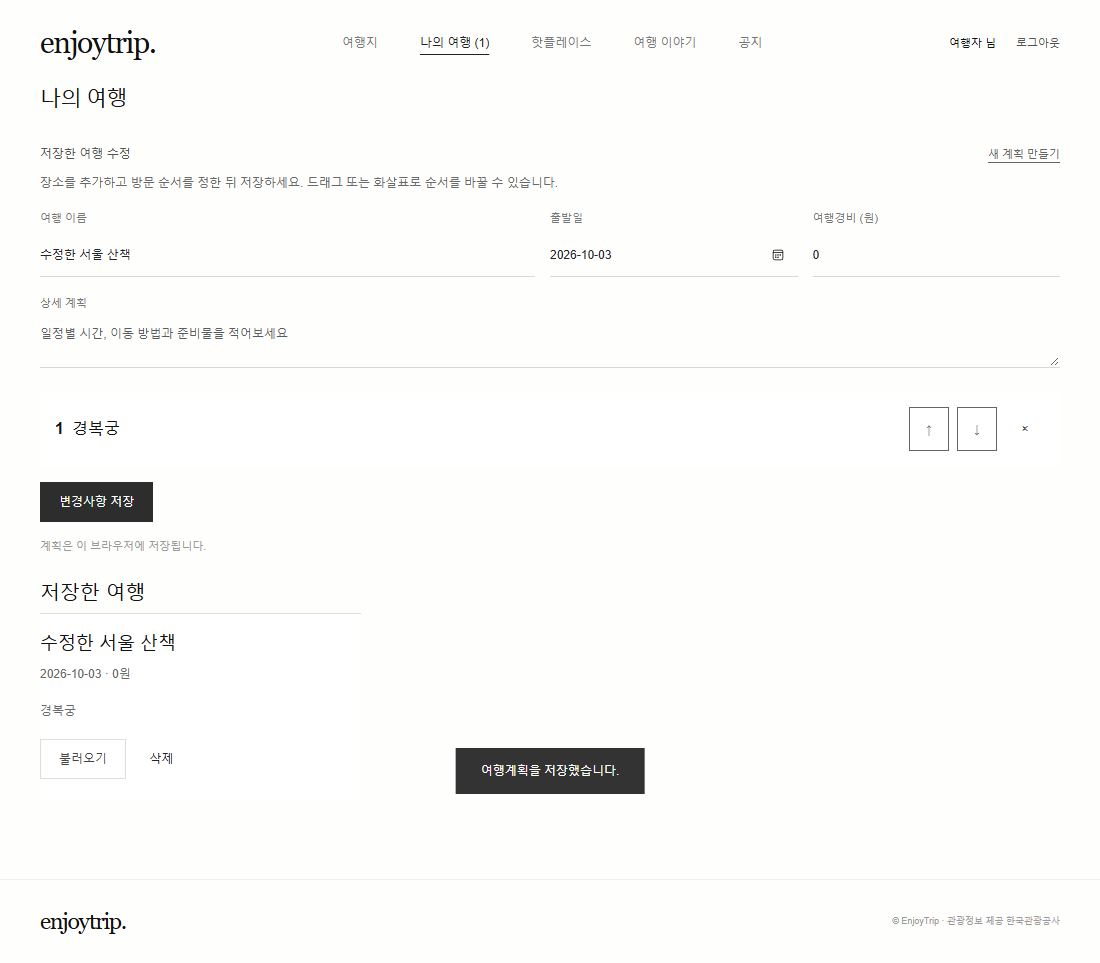
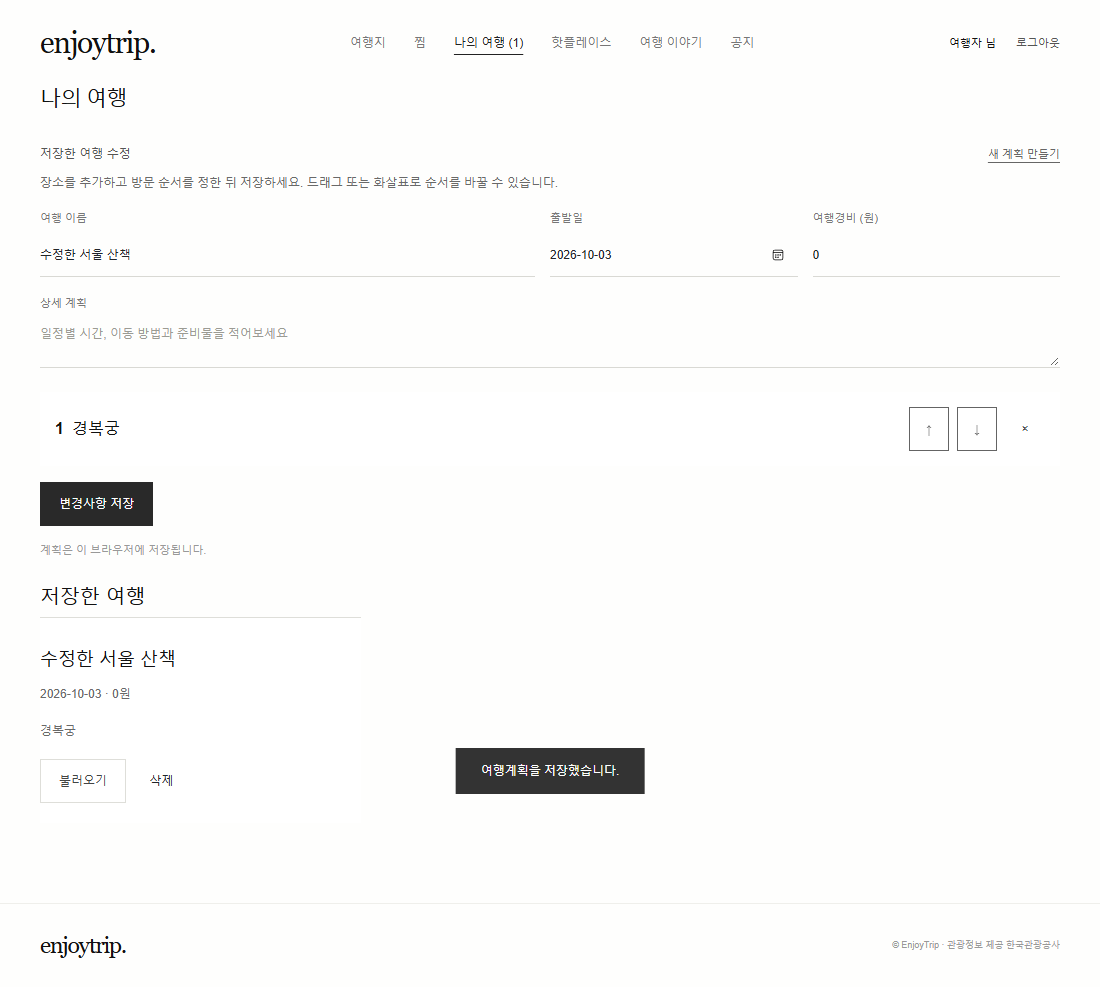
Add favorites and unify page and dialog controls

diff --git a/js/main.js b/js/main.js
@@ -6,7 +6,7 @@ const $=s=>document.querySelector(s), esc=v=>String(v??'').replace(/[&<>"']/g,c=
 function read(key,fallback=[]){try{return JSON.parse(localStorage.getItem('enjoy.'+key))??fallback}catch{return fallback}}
 function save(key,value){try{localStorage.setItem('enjoy.'+key,JSON.stringify(value))}catch{throw Error('저장 공간이 부족하거나 브라우저 저장이 차단되었습니다.')}}
 const current=()=>read('members').find(m=>m.id===sessionStorage.getItem('enjoy.session'));
-let spots=[],route=[],page=1,total=0,request=0,dragIndex=null,live=false;let toastTimer, pendingSpot=null, editingPlan=null, detailRequest=0, activeQuery=null;
+let spots=[],route=[],page=1,total=0,request=0,dragIndex=null,live=false;let toastTimer, pendingSpot=null, pendingHot=null, editingPlan=null, detailRequest=0, activeQuery=null;
 function draftKey(){return 'draft.'+(current()?.id||'guest')}
 function persistDraft(){if(current())save(draftKey(),{route,editingPlan,fields:Object.fromEntries(new FormData($('#plan-form')))});updateJourney()}
 function restoreDraft(){const d=read(draftKey(),{});route=d.route||[];editingPlan=d.editingPlan||null;for(const [key,value] of Object.entries(d.fields||{})){if($('#plan-form').elements[key])$('#plan-form').elements[key].value=value}updateJourney()}
@@ -14,8 +14,8 @@ function updateJourney(){$('#journey-link').hidden=location.hash==='#plan'||!rou
 $('#plan-form').addEventListener('input',persistDraft);
 $('#plan-new').onclick=()=>{if(route.length&&!confirm('현재 편집 내용을 비우고 새 계획을 만들까요?'))return;route=[];editingPlan=null;$('#plan-form').reset();persistDraft();renderRoute();renderSpots()};
 function toast(text){$('#toast').textContent=text;$('#toast').style.display='block';clearTimeout(toastTimer);toastTimer=setTimeout(()=>$('#toast').style.display='none',3500)}
-function modal(html){$('#modal-content').innerHTML=html;$('#modal').showModal()}
-$('#modal').addEventListener('close',()=>{pendingSpot=null;detailRequest++});
+function modal(html){$('#modal-content').innerHTML=html;$('#modal').showModal();enhanceSelects(document.querySelectorAll('#modal select:not([hidden])'))}
+$('#modal').addEventListener('close',()=>{pendingSpot=null;pendingHot=null;detailRequest++});
 $('#modal-close').onclick=()=>$('#modal').close();$('#modal').addEventListener('click',e=>{if(e.target===$('#modal')){const r=e.target.getBoundingClientRect();if(e.clientX<r.left||e.clientX>r.right||e.clientY<r.top||e.clientY>r.bottom)e.target.close()}});
 const empty=text=>`<div class="empty">${text}</div>`;
 const fields=(name,label,type='text',value='',extra='')=>`<label>${label}<input class="form-control" name="${name}" type="${type}" value="${esc(value)}" required ${extra}></label>`;
@@ -24,33 +24,39 @@ function account(){const u=current();$('#account').innerHTML=u?`<a href="#profil
 async function digest(password,salt){const bytes=new TextEncoder().encode(salt+password);return Array.from(new Uint8Array(await crypto.subtle.digest('SHA-256',bytes)),b=>b.toString(16).padStart(2,'0')).join('')}
 function auth(mode){const signup=mode==='signup',reset=mode==='reset';modal(`<h3>${signup?'회원가입':reset?'비밀번호 재설정':'다시 만나 반가워요'}</h3><p>${reset?'학습용 본인 확인: 가입한 아이디와 이메일을 입력하세요.':signup?'아이디는 영문·숫자·밑줄 4~20자, 비밀번호는 8자 이상입니다.':'여행의 즐거움을 함께 기록하세요.'}</p><form id="auth-form">${fields('id','아이디','text','','pattern="[A-Za-z0-9_]{4,20}" title="영문, 숫자, 밑줄 4~20자"')}${signup?fields('name','이름','text','','maxlength="30"'):''}${signup||reset?fields('email','이메일','email'):''}${fields('password',reset?'새 비밀번호':'비밀번호','password','','minlength="8" maxlength="100"')}${signup||reset?fields('confirm','비밀번호 확인','password','','minlength="8"'):''}<p id="auth-error" class="error" role="alert"></p><button class="btn btn-primary w-100">${signup?'가입하기':reset?'재설정':'로그인'}</button></form>${!signup&&!reset?'<div class="actions"><button id="go-signup" class="btn">회원가입</button><button id="go-reset" class="btn">비밀번호 찾기</button></div>':''}`);
 if($('#go-signup')){$('#go-signup').onclick=()=>auth('signup');$('#go-reset').onclick=()=>auth('reset')}
-$('#auth-form').onsubmit=async e=>{e.preventDefault();const f=Object.fromEntries(new FormData(e.target)),members=read('members');try{if(f.confirm&&f.password!==f.confirm)throw Error('비밀번호가 일치하지 않습니다.');let member=members.find(m=>m.id===f.id);if(signup){if(member)throw Error('이미 사용 중인 아이디입니다.');const salt=crypto.randomUUID();member={id:f.id,name:f.name.trim(),email:f.email.trim().toLowerCase(),salt,password:await digest(f.password,salt)};if(!member.name)throw Error('이름을 입력하세요.');members.push(member);save('members',members)}else if(reset){if(!member||member.email!==f.email.trim().toLowerCase())throw Error('아이디와 이메일을 확인하세요.');member.salt=crypto.randomUUID();member.password=await digest(f.password,member.salt);save('members',members)}else if(!member||member.password!==await digest(f.password,member.salt))throw Error('아이디 또는 비밀번호가 올바르지 않습니다.');if(!reset)sessionStorage.setItem('enjoy.session',member.id);$('#modal').close();if(!reset)restoreDraft();account();if(pendingSpot&&!reset){const selected=pendingSpot;pendingSpot=null;addRoute(selected)}toast(reset?'비밀번호를 재설정했습니다.':signup?'가입을 환영합니다!':'로그인했습니다.');navigate()}catch(error){$('#auth-error').textContent=error.message}}}
-function profile(){const u=current();if(!u){$('#profile-content').innerHTML=empty('로그인 후 내 정보를 확인할 수 있습니다.');return}$('#profile-content').innerHTML=`<h3>내 정보</h3><p>아이디: ${esc(u.id)}</p><form id="profile-form">${fields('name','이름','text',u.name,'maxlength="30"')}${fields('email','이메일','email',u.email)}<label>새 비밀번호 (변경할 때만 입력)<input name="password" type="password" minlength="8" class="form-control"></label><button class="btn btn-primary">정보 수정</button><button type="button" id="withdraw" class="btn btn-outline-danger">회원 탈퇴</button></form>`;$('#profile-form').onsubmit=async e=>{e.preventDefault();try{const f=Object.fromEntries(new FormData(e.target)),members=read('members'),m=members.find(m=>m.id===u.id);m.name=f.name.trim();if(!m.name)throw Error('이름을 입력하세요.');m.email=f.email.toLowerCase();if(f.password){m.salt=crypto.randomUUID();m.password=await digest(f.password,m.salt)}save('members',members);account();toast('회원정보를 수정했습니다.')}catch(err){toast(err.message)}};$('#withdraw').onclick=()=>{if(!confirm('탈퇴하면 회원정보와 개인 여행계획이 삭제됩니다. 탈퇴하시겠습니까?'))return;try{save('members',read('members').filter(m=>m.id!==u.id));save('plans',read('plans').filter(p=>p.owner!==u.id));sessionStorage.removeItem('enjoy.session');route=[];account();location.hash='explore';toast('탈퇴했습니다.')}catch(err){toast(err.message)}}}
+$('#auth-form').onsubmit=async e=>{e.preventDefault();const f=Object.fromEntries(new FormData(e.target)),members=read('members');try{if(f.confirm&&f.password!==f.confirm)throw Error('비밀번호가 일치하지 않습니다.');let member=members.find(m=>m.id===f.id);if(signup){if(member)throw Error('이미 사용 중인 아이디입니다.');const salt=crypto.randomUUID();member={id:f.id,name:f.name.trim(),email:f.email.trim().toLowerCase(),salt,password:await digest(f.password,salt)};if(!member.name)throw Error('이름을 입력하세요.');members.push(member);save('members',members)}else if(reset){if(!member||member.email!==f.email.trim().toLowerCase())throw Error('아이디와 이메일을 확인하세요.');member.salt=crypto.randomUUID();member.password=await digest(f.password,member.salt);save('members',members)}else if(!member||member.password!==await digest(f.password,member.salt))throw Error('아이디 또는 비밀번호가 올바르지 않습니다.');if(!reset)sessionStorage.setItem('enjoy.session',member.id);$('#modal').close();if(!reset)restoreDraft();account();if(pendingHot&&!reset){const selected=pendingHot;pendingHot=null;openHot(selected)}if(pendingSpot&&!reset){const selected=pendingSpot;pendingSpot=null;addRoute(selected)}toast(reset?'비밀번호를 재설정했습니다.':signup?'가입을 환영합니다!':'로그인했습니다.');navigate()}catch(error){$('#auth-error').textContent=error.message}}}
+function profile(){const u=current();if(!u){$('#profile-content').innerHTML=empty('로그인 후 내 정보를 확인할 수 있습니다.');return}$('#profile-content').innerHTML=`<p>아이디: ${esc(u.id)}</p><form id="profile-form">${fields('name','이름','text',u.name,'maxlength="30"')}${fields('email','이메일','email',u.email)}<label>새 비밀번호 (변경할 때만 입력)<input name="password" type="password" minlength="8" class="form-control"></label><button class="btn btn-primary">정보 수정</button><button type="button" id="withdraw" class="btn btn-outline-danger">회원 탈퇴</button></form>`;$('#profile-form').onsubmit=async e=>{e.preventDefault();try{const f=Object.fromEntries(new FormData(e.target)),members=read('members'),m=members.find(m=>m.id===u.id);m.name=f.name.trim();if(!m.name)throw Error('이름을 입력하세요.');m.email=f.email.toLowerCase();if(f.password){m.salt=crypto.randomUUID();m.password=await digest(f.password,m.salt)}save('members',members);account();toast('회원정보를 수정했습니다.')}catch(err){toast(err.message)}};$('#withdraw').onclick=()=>{if(!confirm('탈퇴하면 회원정보와 개인 여행계획이 삭제됩니다. 탈퇴하시겠습니까?'))return;try{save('members',read('members').filter(m=>m.id!==u.id));save('plans',read('plans').filter(p=>p.owner!==u.id));sessionStorage.removeItem('enjoy.session');route=[];account();location.hash='explore';toast('탈퇴했습니다.')}catch(err){toast(err.message)}}}
 $('#region').innerHTML='<option value="">전국</option>'+regions.map(r=>`<option value="${r[0]}">${r[1]}</option>`).join('');$('#category').innerHTML='<option value="">모든 유형</option>'+categories.map(r=>`<option value="${r[0]}">${r[1]}</option>`).join('');
 $('#district').disabled=true;
 let districtRequest=0;$('#region').onchange=async()=>{const id=++districtRequest;$('#district').disabled=true;$('#district').innerHTML='<option value="">'+($('#region').value?'불러오는 중…':'지역을 먼저 선택하세요')+'</option>';if(!$('#region').value)return;try{const result=await tourAPI('ldongCode2',{lDongRegnCd:$('#region').value,lDongListYn:'N',numOfRows:100});if(id!==districtRequest)return;$('#district').innerHTML='<option value="">전체</option>';$('#district').disabled=false;$('#district').innerHTML+=result.items.map(r=>`<option value="${esc(r.code||r.lDongSignguCd)}">${esc(r.name||r.lDongSignguNm)}</option>`).join('')}catch{if(id===districtRequest){$('#district').innerHTML='<option value="">시군구를 불러오지 못했습니다</option>';toast('지역 전체로 검색할 수 있습니다. 시군구 조회는 지역을 다시 선택해 주세요.')}}};
 
+const favoriteKey=()=> 'favorites';
+function isFavorite(s){return read(favoriteKey()).some(f=>f.contentid===s.contentid)}
+function favoriteButton(s){return `<button type="button" class="favorite-toggle" data-favorite="${esc(s.contentid)}" aria-pressed="${isFavorite(s)}" aria-label="${esc(s.title)} ${isFavorite(s)?'찜 해제':'찜하기'}">${isFavorite(s)?'♥ 찜함':'♡ 찜'}</button>`}
+function toggleFavorite(s){try{const saved=isFavorite(s);save(favoriteKey(),saved?read(favoriteKey()).filter(f=>f.contentid!==s.contentid):[s,...read(favoriteKey())]);renderSpots();renderFavorites();if($('#detail-favorite')){$('#detail-favorite').innerHTML=favoriteButton(s);$('#detail-favorite button').onclick=()=>toggleFavorite(s)}toast(saved?'찜을 해제했습니다.':'찜에 저장했습니다.')}catch(e){toast(e.message)}}
+function renderFavorites(){const rows=read(favoriteKey());$('#favorite-list').innerHTML=rows.length?rows.map((s,i)=>`<article class="tile">${s.firstimage?`<img src="${esc(s.firstimage)}" alt="${esc(s.title)}" loading="lazy">`:''}<span class="badge-type">${typeName(s)}</span><h3><button class="spot-title" data-fav-detail="${i}">${esc(s.title)}</button></h3><p>${esc(s.addr1||'')}</p><div class="actions">${favoriteButton(s)}<button class="btn btn-outline-secondary" data-fav-add="${i}" ${route.some(r=>r.contentid===s.contentid)?'disabled':''}>${route.some(r=>r.contentid===s.contentid)?'추가됨 ✓':'여행에 추가'}</button><button class="btn" data-fav-hot="${i}">핫플로 등록</button></div></article>`).join(''):'<div class="empty">아직 찜한 장소가 없습니다.<br><a class="empty-link" href="#explore">여행지 찾아보기 →</a></div>';$('#favorite-list').querySelectorAll('[data-favorite]').forEach(b=>b.onclick=()=>toggleFavorite(rows.find(s=>s.contentid===b.dataset.favorite)));for(const [attr,action] of [['detail',detail],['add',addRoute],['hot',openHot]])$('#favorite-list').querySelectorAll(`[data-fav-${attr}]`).forEach(b=>b.onclick=()=>action(rows[b.dataset['fav'+attr[0].toUpperCase()+attr.slice(1)]]))}
 function typeName(s){return categories.find(c=>String(c[0])===String(s.contenttypeid))?.[1]||'여행지'}
-function renderSpots(){ $('#result-count').textContent=`발견한 장소 ${total}곳`;$('#spots').innerHTML=spots.length?spots.map((s,i)=>`<article class="spot-card">${s.firstimage?`<img class="spot-art" src="${esc(s.firstimage)}" alt="${esc(s.title)}" loading="lazy" referrerpolicy="no-referrer">`:`<div class="spot-index" aria-hidden="true">${String(i+1).padStart(2,'0')}</div>`}<div class="spot-copy"><span class="badge-type">${typeName(s)}</span><h3><button type="button" class="spot-title" data-detail="${i}">${esc(s.title)}</button></h3><p>${esc(s.addr1||'주소 정보 없음')}</p><button class="btn btn-primary" data-add="${i}" ${route.some(r=>r.contentid===s.contentid)?'disabled':''}>${route.some(r=>r.contentid===s.contentid)?'추가됨 ✓':'여행에 추가 +'}</button></div></article>`).join(''):empty('검색 결과가 없습니다. 다른 지역이나 검색어를 선택해 보세요.');$('#more').hidden=!live||spots.length>=total;$('#spots').querySelectorAll('[data-detail]').forEach(b=>b.onclick=()=>detail(spots[b.dataset.detail]));$('#spots').querySelectorAll('[data-add]').forEach(b=>b.onclick=()=>addRoute(spots[b.dataset.add]));if(map)updateMap(spots.map(s=>({...s,x:Number(s.mapx),y:Number(s.mapy),label:s.title,address:s.addr1})));$('#spots').querySelectorAll('img').forEach(img=>img.onerror=()=>{img.removeAttribute('src');img.alt='사진 준비 중'})}
+function renderSpots(){ $('#result-count').textContent=`발견한 장소 ${total}곳`;$('#spots').innerHTML=spots.length?spots.map((s,i)=>`<article class="spot-card">${s.firstimage?`<img class="spot-art" src="${esc(s.firstimage)}" alt="${esc(s.title)}" loading="lazy" referrerpolicy="no-referrer">`:`<div class="spot-index" aria-hidden="true">${String(i+1).padStart(2,'0')}</div>`}<div class="spot-copy"><span class="badge-type">${typeName(s)}</span><h3><button type="button" class="spot-title" data-detail="${i}">${esc(s.title)}</button></h3><p>${esc(s.addr1||'주소 정보 없음')}</p>${favoriteButton(s)}<button class="btn btn-primary" data-add="${i}" ${route.some(r=>r.contentid===s.contentid)?'disabled':''}>${route.some(r=>r.contentid===s.contentid)?'추가됨 ✓':'여행에 추가 +'}</button></div></article>`).join(''):empty('검색 결과가 없습니다. 다른 지역이나 검색어를 선택해 보세요.');$('#more').hidden=!live||spots.length>=total;$('#spots').querySelectorAll('[data-favorite]').forEach(b=>b.onclick=()=>toggleFavorite(spots.find(s=>s.contentid===b.dataset.favorite)));$('#spots').querySelectorAll('[data-detail]').forEach(b=>b.onclick=()=>detail(spots[b.dataset.detail]));$('#spots').querySelectorAll('[data-add]').forEach(b=>b.onclick=()=>addRoute(spots[b.dataset.add]));if(map)updateMap(spots.map(s=>({...s,x:Number(s.mapx),y:Number(s.mapy),label:s.title,address:s.addr1})));$('#spots').querySelectorAll('img').forEach(img=>img.onerror=()=>{img.removeAttribute('src');img.alt='사진 준비 중'})}
 async function search(append=false,near=null){const id=++request;$('#spots').setAttribute('aria-busy','true');$('#data-status').textContent='관광정보를 불러오고 있습니다…';const buttons=$('#search').querySelectorAll('button');buttons.forEach(b=>b.disabled=true);$('#more').disabled=true;if(!append)page=1;const region=$('#region').value,category=$('#category').value,keyword=$('#keyword').value.trim();let params={pageNo:page,arrange:'A'};if(region)params.lDongRegnCd=region;if($('#district').value)params.lDongSignguCd=$('#district').value;if(category)params.contentTypeId=category;let method='areaBasedList2';if(keyword){method='searchKeyword2';params.keyword=keyword}if(near){method='locationBasedList2';params={pageNo:page,mapX:near.lng,mapY:near.lat,radius:2000,arrange:'E',...(category?{contentTypeId:category}:{})}}
 if(append&&activeQuery){method=activeQuery.method;params={...activeQuery.params,pageNo:page}}else{activeQuery={method,params:{...params}};const summary=[near?'내 주변 2km':$('#region').selectedOptions[0].textContent,$('#district').value?$('#district').selectedOptions[0].textContent:'',category?$('#category').selectedOptions[0].textContent:'',keyword&&!near?`“${keyword}”`:''].filter(Boolean).join(' · ');$('#search-summary').textContent=summary;$('#search-context').hidden=!near&&!region&&!category&&!keyword}
 try{const result=await tourAPI(method,params);if(id!==request)return;spots=append?[...spots,...result.items]:result.items;total=result.total;live=true;$('#data-status').textContent='한국관광공사 실시간 관광정보'}catch(err){if(id!==request)return;if(append){page=Math.max(1,page-1);$('#data-status').textContent='추가 결과를 불러오지 못했습니다. 다시 시도해 주세요.';return}live=false;spots=samples.filter(s=>(!region||s.region===region)&&(!category||s.contenttypeid===category)&&(!keyword||s.title.includes(keyword)||s.addr1.includes(keyword)));if(near){spots=spots.filter(s=>{const dy=(s.mapy-near.lat)*111,dx=(s.mapx-near.lng)*111*Math.cos(near.lat*Math.PI/180);return Math.hypot(dx,dy)<=2})}if($('#district').value)spots=[];total=spots.length;$('#data-status').textContent='샘플 모드 · API 연결 실패, 실제 조회 결과가 아닙니다.'}finally{if(id===request){renderSpots();$('#spots').setAttribute('aria-busy','false');buttons.forEach(b=>b.disabled=false);$('#district').dispatchEvent(new Event('change'));$('#more').disabled=false}}}
 $('#search-reset').onclick=()=>{$('#search').reset();$('#region').dispatchEvent(new Event('change'));$('#category').dispatchEvent(new Event('change'));search()};
 $('#search').onsubmit=e=>{e.preventDefault();search()};$('#more').onclick=()=>{page++;search(true)};$('#nearby').onclick=()=>{if(!navigator.geolocation)return toast('이 브라우저는 위치 조회를 지원하지 않습니다.');navigator.geolocation.getCurrentPosition(p=>search(false,{lat:p.coords.latitude,lng:p.coords.longitude}),()=>toast('위치 권한을 허용해 주세요. 지역 검색은 계속 이용할 수 있습니다.'),{timeout:10000})};
-async function detail(s){const ticket=++detailRequest;if(map&&Number(s.mapy)&&Number(s.mapx)){map.setLevel(4);map.panTo(new kakao.maps.LatLng(Number(s.mapy),Number(s.mapx)))}modal(`<h3>${esc(s.title)}</h3>${s.firstimage?`<img class="detail-photo" src="${esc(s.firstimage)}" alt="${esc(s.title)}">`:''}<p>${esc(s.addr1)}</p><p id="detail-text">${esc(s.overview||'상세정보를 불러오는 중입니다…')}</p><div class="actions"><button id="detail-add" class="btn btn-primary">여행에 추가</button><a class="btn btn-outline-secondary" target="_blank" rel="noopener" href="https://map.kakao.com/link/search/${encodeURIComponent(s.title)}">카카오맵에서 보기 ↗</a></div>`);$('#detail-add').textContent=route.some(r=>r.contentid===s.contentid)?'추가됨 ✓':'여행에 추가 +';$('#detail-add').disabled=route.some(r=>r.contentid===s.contentid);$('#detail-add').onclick=()=>addRoute(s);if(!s.sample)try{const r=await tourAPI('detailCommon2',{contentId:s.contentid});if(ticket===detailRequest&&$('#modal').open&&$('#detail-text'))$('#detail-text').textContent=(r.items[0]?.overview||'제공된 상세 설명이 없습니다.').replace(/<[^>]*>/g,' ')}catch{if(ticket===detailRequest&&$('#modal').open&&$('#detail-text'))$('#detail-text').textContent='상세정보를 불러오지 못했습니다. 지도에서 확인해 주세요.'}}
-function addRoute(s){if(!current()){pendingSpot=s;auth('login');toast('로그인하면 선택한 장소를 여행에 추가합니다.');return;}if(route.some(r=>r.contentid===s.contentid))return toast('이미 여행에 추가한 장소입니다.');route.push(s);persistDraft();renderRoute();renderSpots();if($('#detail-add')){$('#detail-add').textContent='추가됨 ✓';$('#detail-add').disabled=true}toast('나의 여행에 추가했습니다.')}
+async function detail(s){const ticket=++detailRequest;if(map&&Number(s.mapy)&&Number(s.mapx)){map.setLevel(4);map.panTo(new kakao.maps.LatLng(Number(s.mapy),Number(s.mapx)))}modal(`<h3>${esc(s.title)}</h3>${s.firstimage?`<img class="detail-photo" src="${esc(s.firstimage)}" alt="${esc(s.title)}">`:''}<p>${esc(s.addr1)}</p><p id="detail-text">${esc(s.overview||'상세정보를 불러오는 중입니다…')}</p><div class="actions"><span id="detail-favorite">${favoriteButton(s)}</span><button id="detail-add" class="btn btn-primary">여행에 추가</button><a class="btn btn-outline-secondary" target="_blank" rel="noopener" href="https://map.kakao.com/link/search/${encodeURIComponent(s.title)}">카카오맵에서 보기 ↗</a></div>`);$('#detail-favorite button').onclick=()=>toggleFavorite(s);$('#detail-add').textContent=route.some(r=>r.contentid===s.contentid)?'추가됨 ✓':'여행에 추가 +';$('#detail-add').disabled=route.some(r=>r.contentid===s.contentid);$('#detail-add').onclick=()=>addRoute(s);if(!s.sample)try{const r=await tourAPI('detailCommon2',{contentId:s.contentid});if(ticket===detailRequest&&$('#modal').open&&$('#detail-text'))$('#detail-text').textContent=(r.items[0]?.overview||'제공된 상세 설명이 없습니다.').replace(/<[^>]*>/g,' ')}catch{if(ticket===detailRequest&&$('#modal').open&&$('#detail-text'))$('#detail-text').textContent='상세정보를 불러오지 못했습니다. 지도에서 확인해 주세요.'}}
+function addRoute(s){if(!current()){pendingSpot=s;auth('login');toast('로그인하면 선택한 장소를 여행에 추가합니다.');return;}if(route.some(r=>r.contentid===s.contentid))return toast('이미 여행에 추가한 장소입니다.');route.push(s);persistDraft();renderRoute();renderSpots();renderFavorites();if($('#detail-add')){$('#detail-add').textContent='추가됨 ✓';$('#detail-add').disabled=true}toast('나의 여행에 추가했습니다.')}
 function renderRoute(){updateJourney();$('#route-list').innerHTML=route.length?route.map((s,i)=>`<li draggable="true" data-index="${i}"><b>${i+1}</b><span>${esc(s.title)}</span><button type="button" class="btn" data-up="${i}" aria-label="위로 이동" ${i===0?'disabled':''}>↑</button><button type="button" class="btn" data-down="${i}" aria-label="아래로 이동" ${i===route.length-1?'disabled':''}>↓</button><button type="button" class="btn" data-remove="${i}" aria-label="경로에서 제거">×</button></li>`).join(''):'<div class="empty">아직 추가한 장소가 없습니다.<br><a class="empty-link" href="#explore">여행지 찾아보기 →</a></div>';for(const [action,delta]of[['up',-1],['down',1]])$('#route-list').querySelectorAll(`[data-${action}]`).forEach(b=>b.onclick=()=>{const i=Number(b.dataset[action]),j=i+delta;if(j>=0&&j<route.length){[route[i],route[j]]=[route[j],route[i]];persistDraft();renderRoute()}});$('#route-list').querySelectorAll('[data-remove]').forEach(b=>b.onclick=()=>{route.splice(Number(b.dataset.remove),1);persistDraft();renderRoute();renderSpots()});$('#route-list').querySelectorAll('li').forEach(li=>{li.ondragstart=e=>{dragIndex=Number(li.dataset.index);e.dataTransfer.setData('text/plain',String(dragIndex))};li.ondragover=e=>e.preventDefault();li.ondrop=e=>{e.preventDefault();if(dragIndex===null)return;const [s]=route.splice(dragIndex,1);route.splice(Number(li.dataset.index),0,s);dragIndex=null;persistDraft();renderRoute()};li.ondragend=()=>dragIndex=null})}
 $('#plan-form').onsubmit=e=>{e.preventDefault();if(!requireUser())return;if(!route.length)return toast('여행지를 한 곳 이상 추가하세요.');try{const f=Object.fromEntries(new FormData(e.target));if(!f.title.trim())return toast('여행 이름을 입력하세요.');const entry={...f,title:f.title.trim(),id:editingPlan||crypto.randomUUID(),owner:current().id,route:[...route]},plans=read('plans');save('plans',editingPlan?plans.map(p=>p.id===editingPlan&&p.owner===current().id?entry:p):[entry,...plans]);editingPlan=entry.id;persistDraft();renderPlans();toast('여행계획을 저장했습니다.')}catch(err){toast(err.message)}};
 function renderPlans(){const plans=read('plans').filter(p=>p.owner===current()?.id);$('#saved-plans').innerHTML=plans.length?plans.map(p=>`<article class="tile"><h3>${esc(p.title)}</h3><p>${esc(p.date)} · ${Number(p.budget).toLocaleString()}원</p><p>${p.route.map(r=>esc(r.title)).join(' → ')}</p><p>${esc(p.memo)}</p><button class="btn btn-outline-secondary" data-load="${p.id}">불러오기</button> <button class="btn" data-delete-plan="${p.id}">삭제</button></article>`).join(''):empty('저장한 여행계획이 없습니다.');$('#saved-plans').querySelectorAll('[data-load]').forEach(b=>b.onclick=()=>{const p=plans.find(p=>p.id===b.dataset.load);route=[...p.route];editingPlan=p.id;for(const key of ['title','date','budget','memo'])$('#plan-form').elements[key].value=p[key];persistDraft();renderRoute();$('#plan-form').scrollIntoView({behavior:'smooth',block:'start'});toast('계획을 불러왔습니다. 수정 후 변경사항을 저장하세요.')});$('#saved-plans').querySelectorAll('[data-delete-plan]').forEach(b=>b.onclick=()=>{if(confirm('여행계획을 삭제할까요?')){save('plans',read('plans').filter(p=>p.id!==b.dataset.deletePlan));if(editingPlan===b.dataset.deletePlan){editingPlan=null;persistDraft()}renderPlans()}})}
 function renderHot(){const items=read('hot');$('#hot-list').innerHTML=items.length?items.map(h=>`<article class="tile">${h.photo?`<img src="${h.photo}" alt="${esc(h.title)}">`:''}<span class="badge-type">${esc(h.type)}</span><h3>${esc(h.title)}</h3><p>${esc(h.address)} · ${esc(h.date)}</p><p>${esc(h.memo)}</p><a class="btn btn-outline-secondary" href="https://map.kakao.com/link/search/${encodeURIComponent(h.address)}" target="_blank" rel="noopener">지도 보기</a>${current()?.id===h.owner?`<button class="btn" data-hot-delete="${h.id}">삭제</button>`:''}</article>`).join(''):empty('아직 등록된 Hotplace가 없습니다. 나만 아는 장소를 소개해 주세요.');$('#hot-list').querySelectorAll('[data-hot-delete]').forEach(b=>b.onclick=()=>{if(confirm('Hotplace를 삭제할까요?')){save('hot',read('hot').filter(h=>h.id!==b.dataset.hotDelete));renderHot()}})}
-$('#hot-add').onclick=()=>{if(!requireUser())return;modal(`<h3>나만의 Hotplace</h3><form id="hot-form">${fields('title','장소 이름','text','','maxlength="80"')}${fields('address','주소')}${fields('date','다녀온 날짜','date')}<label>장소 유형<select name="type" class="form-select"><option>관광지</option><option>음식점</option><option>숙박</option><option>문화시설</option><option>기타</option></select></label><label>사진 (이미지 2MB 이하)<input name="photo" class="form-control" type="file" accept="image/png,image/jpeg,image/webp"></label><label>상세 설명<textarea class="form-control" name="memo" required maxlength="2000"></textarea></label><button class="btn btn-primary">등록하기</button></form>`);$('#hot-form').onsubmit=async e=>{e.preventDefault();try{const f=new FormData(e.target),file=f.get('photo');let photo='';if(file.size){if(file.size>2*1024*1024||!['image/png','image/jpeg','image/webp'].includes(file.type))throw Error('PNG, JPEG, WebP 이미지 2MB 이하만 등록할 수 있습니다.');photo=await new Promise((resolve,reject)=>{const r=new FileReader();r.onload=()=>resolve(r.result);r.onerror=reject;r.readAsDataURL(file)})}const h=Object.fromEntries(f);delete h.photo;save('hot',[...read('hot'),{...h,photo,id:crypto.randomUUID(),owner:current().id}]);$('#modal').close();renderHot();toast('Hotplace를 등록했습니다.')}catch(err){toast(err.message)}}};
+$('#hot-add').onclick=()=>openHot();
+function openHot(place=null){if(!current()){pendingHot=place||{};auth('login');toast('로그인 후 장소 소개를 등록할 수 있습니다.');return;}modal(`<h3>핫플레이스 등록</h3><form id="hot-form">${fields('title','장소 이름','text',place?.title||'','maxlength="80"')}${fields('address','주소','text',place?.addr1||'')}${fields('date','다녀온 날짜','date',new Date().toLocaleDateString('sv-SE'))}<label>장소 유형<select name="type" class="form-select"><option>관광지</option><option>음식점</option><option>숙박</option><option>문화시설</option><option>기타</option></select></label><label>사진 (이미지 2MB 이하)<input name="photo" class="form-control" type="file" accept="image/png,image/jpeg,image/webp"></label><label>한 줄 소개 (선택)<textarea class="form-control" name="memo" maxlength="2000" placeholder="어떤 점이 좋았나요?"></textarea></label><button class="btn btn-primary">등록하기</button></form>`);$('#hot-form').onsubmit=async e=>{e.preventDefault();try{const f=new FormData(e.target),file=f.get('photo');let photo='';if(file.size){if(file.size>2*1024*1024||!['image/png','image/jpeg','image/webp'].includes(file.type))throw Error('PNG, JPEG, WebP 이미지 2MB 이하만 등록할 수 있습니다.');photo=await new Promise((resolve,reject)=>{const r=new FileReader();r.onload=()=>resolve(r.result);r.onerror=reject;r.readAsDataURL(file)})}const h=Object.fromEntries(f);delete h.photo;save('hot',[...read('hot'),{...h,photo,id:crypto.randomUUID(),owner:current().id}]);$('#modal').close();renderHot();location.hash='hotplace';toast('핫플레이스를 등록했습니다.')}catch(err){toast(err.message)}}};
 if(!localStorage.getItem('enjoy.notices'))save('notices',[{id:'welcome',title:'EnjoyTrip에 오신 것을 환영합니다',body:'지역별 여행지를 검색하고 나만의 여행계획을 만들어 보세요. 이 서비스는 브라우저에 데이터를 저장하는 프론트엔드 학습용 프로젝트입니다.',author:'EnjoyTrip',owner:null,date:'2026-10-02'}]);
 function renderPosts(notice=false){const key=notice?'notices':'posts',target=notice?'#notice-list':'#post-list',q=notice?'':$('#board-search').value.trim();const rows=read(key).filter(p=>!q||p.title.includes(q)||p.body.includes(q));$(target).innerHTML=rows.length?rows.map(p=>`<article class="board-row" tabindex="0" role="button" data-post="${p.id}"><strong>${esc(p.title)}</strong><small>${esc(p.author)} · ${esc(p.date)}</small></article>`).join(''):empty('게시글이 없습니다. 첫 이야기를 남겨보세요.');$(target).querySelectorAll('[data-post]').forEach(b=>{b.onclick=()=>postDetail(key,b.dataset.post);b.onkeydown=e=>{if(e.key==='Enter')b.click()}})}
 function postDetail(key,id){const p=read(key).find(p=>p.id===id);if(!p)return;modal(`<span class="eyebrow">${key==='notices'?'NOTICE':'TRAVEL STORY'}</span><h3 class="mt-3">${esc(p.title)}</h3><p>${esc(p.author)} · ${esc(p.date)}</p><div style="white-space:pre-wrap">${esc(p.body)}</div>${p.owner===current()?.id?'<div class="actions"><button id="edit-post" class="btn btn-primary">수정</button><button id="delete-post" class="btn btn-outline-danger">삭제</button></div>':''}`);if($('#edit-post')){$('#edit-post').onclick=()=>editPost(key,p);$('#delete-post').onclick=()=>{if(confirm('게시글을 삭제할까요?')){save(key,read(key).filter(x=>x.id!==id));$('#modal').close();renderPosts(key==='notices');toast('삭제했습니다.')}}}}
 function editPost(key,p=null){if(!requireUser())return;modal(`<h3>${key==='notices'?'공지사항':'여행 이야기'} ${p?'수정':'등록'}</h3>${key==='notices'?'<p>학습용으로 로그인한 회원 누구나 자신이 작성한 공지를 관리할 수 있습니다.</p>':''}<form id="post-form">${fields('title','제목','text',p?.title||'','maxlength="100"')}<label>내용<textarea name="body" class="form-control" required maxlength="5000" rows="8">${esc(p?.body||'')}</textarea></label><button class="btn btn-primary">저장하기</button></form>`);$('#post-form').onsubmit=e=>{e.preventDefault();try{const f=Object.fromEntries(new FormData(e.target));if(!f.title.trim()||!f.body.trim())throw Error('제목과 내용을 입력하세요.');const rows=read(key),post={...f,id:p?.id||crypto.randomUUID(),owner:current().id,author:current().name,date:new Date().toLocaleDateString('sv-SE')};save(key,p?rows.map(r=>r.id===p.id?post:r):[post,...rows]);$('#modal').close();renderPosts(key==='notices');toast('저장했습니다.')}catch(err){toast(err.message)}}}
 $('#post-add').onclick=()=>editPost('posts');$('#notice-add').onclick=()=>editPost('notices');$('#board-search').oninput=()=>renderPosts();
-const headings={explore:['EXPLORE KOREA','여행지','지역과 취향으로 찾아보는 나의 다음 여행지'],plan:['MY JOURNEY','나의 여행','발견한 장소를 연결하고 설레는 하루를 계획하세요'],hotplace:['HIDDEN GEMS','핫플레이스','여행자들이 직접 소개하는 숨은 보석'],board:['TRAVEL STORIES','여행 이야기','경험과 팁을 나누고 다음 여행의 영감을 찾아보세요'],notice:['NOTICE','공지사항','새로운 여행 소식과 이용 안내'],profile:['MY ACCOUNT','내 정보','나의 여행자 프로필을 확인하고 수정하세요']};
-function navigate(){const name=location.hash.slice(1) in headings?location.hash.slice(1):'explore';document.querySelectorAll('.view').forEach(v=>v.hidden=v.id!==name);document.querySelectorAll('nav a').forEach(a=>{a.classList.toggle('active',a.hash==='#'+name);if(a.hash==='#'+name)a.setAttribute('aria-current','page');else a.removeAttribute('aria-current')});['#section-tag','#section-title','#section-desc'].forEach((s,i)=>$(s).textContent=headings[name][i]);$('.hero').hidden=name!=='explore';$('#journey-link').hidden=name==='plan'||!route.length;if(name==='plan'){renderRoute();renderPlans()}if(name==='hotplace')renderHot();if(name==='board')renderPosts();if(name==='notice')renderPosts(true);if(name==='profile')profile();if(name==='explore'&&map)setTimeout(()=>{map.relayout();renderSpots()},0)}
+const headings={favorites:['SAVED PLACES','찜한 장소','마음에 드는 장소를 모아두세요'],explore:['EXPLORE KOREA','여행지','지역과 취향으로 찾아보는 나의 다음 여행지'],plan:['MY JOURNEY','나의 여행','발견한 장소를 연결하고 설레는 하루를 계획하세요'],hotplace:['HIDDEN GEMS','핫플레이스','여행자들이 직접 소개하는 숨은 보석'],board:['TRAVEL STORIES','여행 이야기','경험과 팁을 나누고 다음 여행의 영감을 찾아보세요'],notice:['NOTICE','공지사항','새로운 여행 소식과 이용 안내'],profile:['MY ACCOUNT','내 정보','나의 여행자 프로필을 확인하고 수정하세요']};
+function navigate(){const name=location.hash.slice(1) in headings?location.hash.slice(1):'explore';document.querySelectorAll('.view').forEach(v=>v.hidden=v.id!==name);document.querySelectorAll('nav a').forEach(a=>{a.classList.toggle('active',a.hash==='#'+name);if(a.hash==='#'+name)a.setAttribute('aria-current','page');else a.removeAttribute('aria-current')});['#section-tag','#section-title','#section-desc'].forEach((s,i)=>$(s).textContent=headings[name][i]);$('.hero').hidden=name!=='explore';$('#journey-link').hidden=name==='plan'||!route.length;if(name==='plan'){renderRoute();renderPlans()}if(name==='favorites')renderFavorites();if(name==='hotplace')renderHot();if(name==='board')renderPosts();if(name==='notice')renderPosts(true);if(name==='profile')profile();if(name==='explore'&&map)setTimeout(()=>{map.relayout();renderSpots()},0)}
 enhanceSelects(document.querySelectorAll('#search select'));
 window.onhashchange=()=>{navigate();window.scrollTo({top:0,behavior:'smooth'})};restoreDraft();account();navigate();search();
 loadKakaoMap().then(()=>{initMap('map');$('#map-status').textContent='카카오 지도 · 장소 선택 시 위치 확인';renderSpots()}).catch(()=>{$('#map').innerHTML='<div class="fallback"><h3>지도를 연결해 주세요</h3><p>카카오 지도 키와 도메인 설정이 필요합니다.</p></div>';$('#map-status').textContent='장소 상세에서 카카오맵을 열 수 있습니다.'});

diff --git a/index.html b/index.html
@@ -1,11 +1,12 @@
 <!doctype html>
 <html lang="ko"><head><meta charset="UTF-8"><meta name="viewport" content="width=device-width, initial-scale=1"><title>EnjoyTrip · 나를 위한 여행의 시작</title><link href="https://cdn.jsdelivr.net/npm/bootstrap@5.3.3/dist/css/bootstrap.min.css" rel="stylesheet"><link rel="stylesheet" href="css/style.css"></head>
-<body><header><a class="brand" href="#explore">enjoytrip.</a><nav aria-label="메인 메뉴"><a href="#explore">여행지</a><a href="#plan">나의 여행</a><a href="#hotplace">핫플레이스</a><a href="#board">여행 이야기</a><a href="#notice">공지</a></nav><div id="account"></div></header>
+<body><header><a class="brand" href="#explore">enjoytrip.</a><nav aria-label="메인 메뉴"><a href="#explore">여행지</a><a href="#favorites">찜</a><a href="#plan">나의 여행</a><a href="#hotplace">핫플레이스</a><a href="#board">여행 이야기</a><a href="#notice">공지</a></nav><div id="account"></div></header>
 <main><section class="hero"><div class="hero-copy"><h1>어디든, 나답게.</h1><p>마음이 머무는 곳을 발견하고<br>나만의 여행을 기록하세요.</p></div><div class="hero-visual"><img src="resources/coast.svg" alt="산과 바다가 만나는 해안 풍경 일러스트"></div></section>
 <div class="section-heading"><span id="section-tag" class="eyebrow">EXPLORE KOREA</span><h2 id="section-title">어디로 떠나볼까요?</h2><p id="section-desc">지역과 취향으로 찾아보는 나의 다음 여행지</p></div>
 <section id="explore" class="view"><form id="search" class="search-bar"><label>지역<select id="region" class="form-select"></select></label><label>시·군·구<select id="district" class="form-select"><option value="">지역을 먼저 선택하세요</option></select></label><label>여행 유형<select id="category" class="form-select"></select></label><label>장소 이름<input id="keyword" class="form-control" placeholder="가고 싶은 장소를 검색하세요"></label><button class="btn btn-primary">검색하기</button><button type="button" class="btn btn-outline-secondary" id="nearby">내 주변</button></form><div class="search-context" id="search-context" hidden><span id="search-summary"></span><button type="button" id="search-reset">조건 초기화</button></div><div class="result-line"><strong id="result-count"></strong><span id="data-status" role="status"></span></div><div class="explore-layout"><div id="spots" class="spot-list" aria-live="polite"></div><div class="map-wrap"><div class="map-title"><b>여행 지도</b></div><div id="map"></div><p id="map-status" class="small"></p></div></div><button id="more" class="btn btn-outline-secondary mt-3" hidden>더 보기</button></section>
 <section id="plan" class="view" hidden><div class="panel"><div class="plan-heading"><p id="plan-mode">새 여행계획</p><button type="button" id="plan-new" hidden>새 계획 만들기</button></div><p>장소를 추가하고 방문 순서를 정한 뒤 저장하세요. 드래그 또는 화살표로 순서를 바꿀 수 있습니다.</p><form id="plan-form"><div class="form-grid"><label>여행 이름<input class="form-control" name="title" required maxlength="80" placeholder="나의 설레는 여행"></label><label>출발일<input class="form-control" name="date" type="date" required></label><label>여행경비 (원)<input class="form-control" name="budget" type="number" min="0" value="0" required></label></div><label>상세 계획<textarea class="form-control" name="memo" maxlength="2000" placeholder="일정별 시간, 이동 방법과 준비물을 적어보세요"></textarea></label><ol id="route-list"></ol><button class="btn btn-primary" id="plan-save">여행계획 저장</button><p class="storage-note">계획은 이 브라우저에 저장됩니다.</p></form></div><h3 class="mt-4">저장한 여행</h3><div id="saved-plans" class="tile-grid"></div></section>
-<section id="hotplace" class="view" hidden><button class="btn btn-primary mb-4" id="hot-add">나만의 Hotplace 등록 +</button><div id="hot-list" class="tile-grid"></div></section>
+<section id="favorites" class="view" hidden><p class="view-intro">마음에 드는 장소를 가볍게 모아두세요. 찜은 이 브라우저에 저장됩니다.</p><div id="favorite-list" class="tile-grid"></div></section>
+<section id="hotplace" class="view" hidden><button class="btn btn-primary mb-4" id="hot-add">장소 소개하기 +</button><div id="hot-list" class="tile-grid"></div></section>
 <section id="board" class="view" hidden><div class="board-toolbar"><input id="board-search" class="form-control" placeholder="제목 또는 내용 검색" aria-label="게시글 검색"><button class="btn btn-primary" id="post-add">글쓰기</button></div><div id="post-list"></div></section>
 <section id="notice" class="view" hidden><button class="btn btn-primary mb-3" id="notice-add">공지 등록</button><div id="notice-list"></div></section>
 <section id="profile" class="view" hidden><div id="profile-content" class="panel narrow"></div></section>

diff --git a/css/style.css b/css/style.css
@@ -9,3 +9,6 @@ body{-webkit-font-smoothing:antialiased;background:#fefefd}header{padding:25px 4
 .search-bar .filter-field{flex:1;font-size:11px;color:#777}.search-bar .filter-field .quiet-select{font-size:12px}@media(max-width:1100px){.search-bar .filter-field{flex:1 1 35%}}@media(max-width:700px){.search-bar .filter-field{flex-basis:40%}}
 /* Clear states and comfortable controls, retaining the quiet visual style. */
 .search-context{display:flex;align-items:center;justify-content:space-between;gap:16px;padding-top:18px;font-size:11px;color:#666}.search-context button,.plan-heading button{border:0;background:none;color:#666;font-size:11px;text-decoration:underline;text-underline-offset:4px;padding:10px 0}.select-trigger:disabled{color:#aaa;cursor:not-allowed}.select-trigger:disabled::after{opacity:.3}.spot-title{min-height:36px}.spot-card .btn{min-height:40px;font-size:11px}.spot-card .btn:disabled{color:#999;opacity:1}.spot-list[aria-busy=true]{opacity:.5;pointer-events:none}.journey-link{position:fixed;right:32px;bottom:26px;background:#252522;color:white;padding:16px 24px;z-index:40;font-size:12px;text-decoration:none;box-shadow:0 5px 20px #0001}.journey-link:hover{color:white;background:#444}.plan-heading{display:flex;align-items:center;justify-content:space-between;gap:20px}.plan-heading p{font-size:12px;color:#555;margin:0}.storage-note{font-size:11px;color:#999;margin:15px 0 0}.empty-link{display:inline-block;color:#333;margin-top:16px;text-underline-offset:5px}#route-list li .btn{min-width:40px;min-height:44px;padding:8px}.form-control:focus,.select-trigger:focus-visible{border-bottom-color:#222;outline:2px solid #b6b6ae;outline-offset:3px}nav a.active{color:#222;text-decoration:underline;text-underline-offset:7px!important}#toast{bottom:90px}dialog input,dialog .btn{min-height:44px}@media(max-width:700px){.journey-link{right:22px;bottom:18px;padding:14px 20px}.search-context{font-size:10px}.hero-visual{height:240px}.hero{margin-bottom:38px}.search-bar .btn-primary{min-height:44px}#toast{max-width:calc(100vw - 44px);width:max-content}.spot-card .btn{min-height:44px}}
+/* Shared page and dialog controls. */
+.view-intro{font-size:12px;color:#777;margin:0 0 28px;line-height:1.8}.favorite-toggle{border:0;background:none;color:#666;min-height:44px;padding:8px 12px 8px 0;font-size:12px}.favorite-toggle[aria-pressed=true]{color:#333}.favorite-toggle:focus-visible{outline:2px solid #b6b6ae;outline-offset:2px}.tile .actions{align-items:center;gap:12px}.tile img{height:220px;object-fit:cover}.tile h3{margin:12px 0}.tile .spot-title{font-size:18px}.board-toolbar .btn{white-space:nowrap}.view .btn,.actions .btn{min-height:44px}.close-button{min-height:44px;min-width:44px}.form-control::placeholder{color:#9b9b94}.board-row:focus-visible{outline:2px solid #b6b6ae;outline-offset:4px}dialog .filter-field{margin:15px 0;color:#777;font-size:11px}dialog .select-options{position:static;max-height:180px}.btn-outline-danger{border-color:#deded9;color:#945b53}.btn-outline-danger:hover{background:#945b53;border-color:#945b53}nav{gap:28px}.spot-card .btn-primary{margin-left:10px}#favorite-list .empty{grid-column:1/-1}@media(max-width:700px){nav{gap:20px;justify-content:flex-start;white-space:nowrap;padding-bottom:10px}.tile img{height:200px}.board-toolbar{gap:15px}.view-intro{font-size:11px}.form-grid{grid-template-columns:1fr}.tile-grid{gap:32px}}
+#profile-form label{display:block;margin:20px 0}#profile-form .btn{margin-right:10px}#profile-content>p{font-size:12px;color:#777}.close-button{color:#666}
